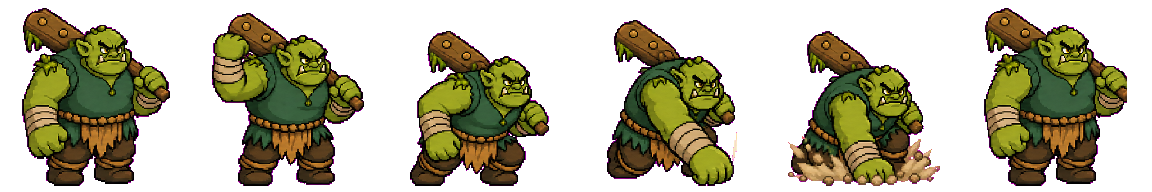
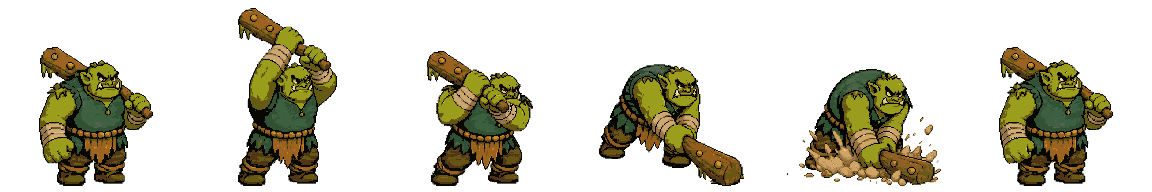
Melhora caminhada e golpe de porrete do Ogro (#44)
Refaz as animações, sincroniza o impacto do porrete e adiciona empurrão seguro para jogador a pé ou montado.

diff --git a/public/demo64/game-original.js b/public/demo64/game-original.js
@@ -163,9 +163,9 @@
     // --- creatures/ ---
     this.load.spritesheet('goblin', A + 'creatures/pedra/goblin_tocha/sheet.png', { frameWidth: 192, frameHeight: 192 });
     this.load.spritesheet('tnt', A + 'creatures/deserto/goblin_tnt/sheet.png', { frameWidth: 192, frameHeight: 192 });
-    this.load.image('swamp-ogre-idle', A + 'creatures/campo/swamp_ogre/idle.png?v=angry1');
-    this.load.spritesheet('swamp-ogre-walk', A + 'creatures/campo/swamp_ogre/walk.png?v=angry1', { frameWidth: 192, frameHeight: 192 });
-    this.load.spritesheet('swamp-ogre-attack', A + 'creatures/campo/swamp_ogre/attack.png?v=angry1', { frameWidth: 192, frameHeight: 192 });
+    this.load.image('swamp-ogre-idle', A + 'creatures/campo/swamp_ogre/idle.png?v=club1');
+    this.load.spritesheet('swamp-ogre-walk', A + 'creatures/campo/swamp_ogre/walk.png?v=club1', { frameWidth: 192, frameHeight: 192 });
+    this.load.spritesheet('swamp-ogre-attack', A + 'creatures/campo/swamp_ogre/attack.png?v=club1', { frameWidth: 192, frameHeight: 192 });
     this.load.image('mossy-boar-idle', A + 'creatures/campo/mossy_boar/idle.png');
     this.load.spritesheet('mossy-boar-walk', A + 'creatures/campo/mossy_boar/walk.png', { frameWidth: 192, frameHeight: 192 });
     this.load.spritesheet('mossy-boar-attack', A + 'creatures/campo/mossy_boar/attack.png', { frameWidth: 192, frameHeight: 192 });
@@ -471,6 +471,7 @@
       foe = {
         walker, spr, cont, wander, last: 0, lunging: false,
         attackKey: 'swamp-ogre-attack', attacking: false, damage: 6,
+        isSwampOgre: true, attackImpactMs: 400, knockbackDistance: 96,
       };
       this.mobs.push(wander);
       this.foes.push(foe);
@@ -1586,12 +1587,53 @@
           f.attacking = false;
           f.walker.setAnim(f.walker.moving ? 'walk' : 'idle', f.walker.dir);
         });
-        this.time.delayedCall(350, () => {
+        this.time.delayedCall(f.attackImpactMs || 350, () => {
           if (f.dead) return;
           const hitDistance = Math.hypot(f.walker.x - this.player.x, f.walker.y - this.player.y);
           if (hitDistance > COMBAT.range * 1.35) return;
           this.flashDoll();
           this.setHp(this.P.hp - (f.damage || 3));
+          if (f.isSwampOgre) {
+            const dx = this.player.x - f.walker.x;
+            const dy = this.player.y - f.walker.y;
+            const len = Math.hypot(dx, dy) || 1;
+            const nx = dx / len, ny = dy / len;
+            const startX = this.player.x, startY = this.player.y;
+            let targetX = startX, targetY = startY;
+            // Resolve em passos curtos pela mesma colisão do jogador. Assim o
+            // golpe nunca atravessa água/árvores nem separa cavaleiro e montaria.
+            for (let pushed = 0; pushed < f.knockbackDistance; pushed += 6) {
+              const nextX = targetX + nx * 6;
+              const nextY = targetY + ny * 6;
+              let moved = false;
+              if (this.player.free(nextX, targetY)) { targetX = nextX; moved = true; }
+              if (this.player.free(targetX, nextY)) { targetY = nextY; moved = true; }
+              if (!moved) break;
+            }
+            this.player.x = targetX;
+            this.player.y = targetY;
+            this.playerKnockbackUntil = this.time.now + 260;
+            if (this._ogrePushTween) this._ogrePushTween.stop();
+            this._ogrePushTween = this.tweens.add({
+              targets: this.player.sprite,
+              x: Math.round(targetX), y: Math.round(targetY),
+              duration: 240, ease: 'Cubic.easeOut',
+              onComplete: () => {
+                this.player.sprite.setPosition(Math.round(this.player.x), Math.round(this.player.y));
+                this._ogrePushTween = null;
+              },
+            });
+            const impactX = f.walker.x + nx * 34;
+            const impactY = f.walker.y + ny * 24 + 8;
+            const ring = this.add.image(impactX, impactY, 'fx-ring')
+              .setTint(0xffc46b).setBlendMode(Phaser.BlendModes.ADD)
+              .setScale(0.25, 0.13).setAlpha(0.9).setDepth(impactY + 5);
+            this.tweens.add({ targets: ring, scaleX: 1.25, scaleY: 0.62,
+              alpha: 0, duration: 300, ease: 'Cubic.easeOut',
+              onComplete: () => ring.destroy() });
+            burst('fx-p-dust', impactX, impactY, 0xd09a5a, 13);
+            this.cameras.main.shake(180, 0.006);
+          }
           if (f.isCloverSpider) {
             this.webSlowUntil = Math.max(this.webSlowUntil || 0, this.time.now + 1800);
             const web = this.add.image(0, 8, 'fx-ring').setTint(0xbaff67)
@@ -1894,7 +1936,9 @@
       ? (AI_MOUNTS[this.P.mount] ? AI_MOUNTS[this.P.mount].speed : 260)
       : 165;
     this.player.speed = time < (this.webSlowUntil || 0) ? baseSpeed * 0.55 : baseSpeed;
-    this.player.update(keyboardVec(this.keys) || this.joy.vec, delta);
+    if (time >= (this.playerKnockbackUntil || 0)) {
+      this.player.update(keyboardVec(this.keys) || this.joy.vec, delta);
+    }
     this.mobs.forEach(m => { if (!m.walker.__dead) m.update(delta); });
     updateEvilSpirits(this, time, delta);
   }

diff --git a/public/demo64/game.js b/public/demo64/game.js
@@ -1,7 +1,7 @@
 /* GameRPG loader */
 (function () {
   const script = document.createElement('script');
-  script.src = './game-original.js?v=ogre-angry-v1';
+  script.src = './game-original.js?v=ogre-club-v1';
   script.onerror = () => console.error('[GameRPG] Falha ao carregar o jogo principal.');
   document.head.appendChild(script);
 })();
